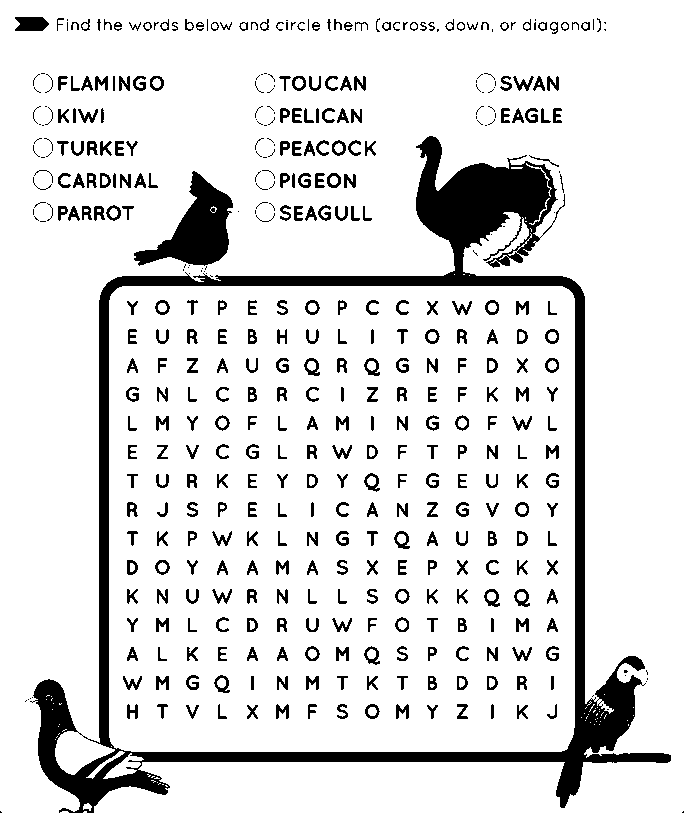
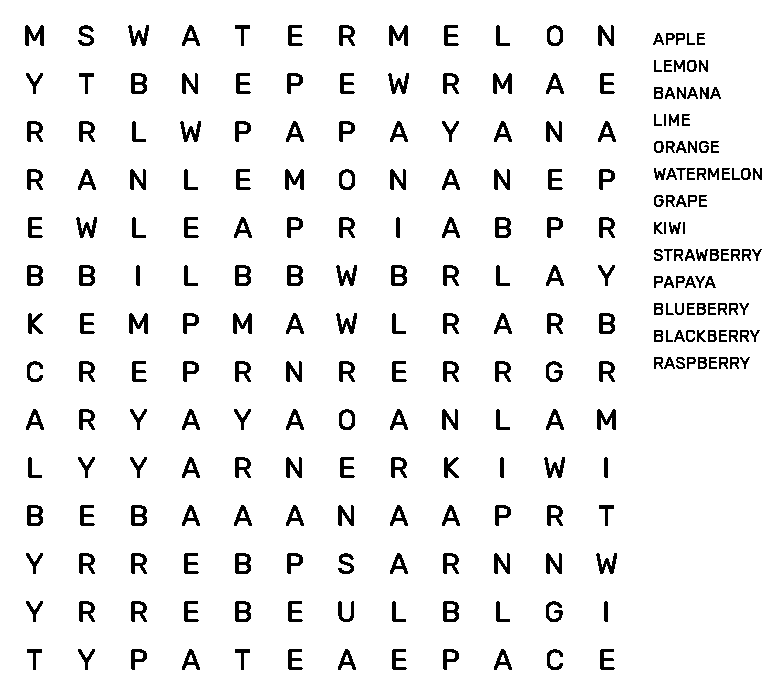
transformed it into linked list

diff --git a/src/Extract/Detection.c b/src/Extract/Detection.c
@@ -56,23 +56,24 @@ void dfs(Cluster *end, int x, int y, gboolean** visit,
 /* initCluster():
     Initialize a new cluster at the given pointer.
 */
-void initCluster(Cluster **last, int x, int y, gboolean** visit,
+void initCluster(Cluster **chain, int x, int y, gboolean** visit,
         GdkPixbuf *pixbuf) {
-    Cluster end = (Cluster) {
+    Cluster *end = malloc(sizeof(Cluster));
+    *end = (Cluster) {
         .size = 0,
         .centerX = 0, .centerY = 0,
         .maxX = x, .minX = x,
         .maxY = y, .minY = y,
         .next = NULL
     };
-    if (*last == NULL)
-        *last = &end;
-    else
-        (*last)->next = &end;
-    *last = &end;
-    dfs(&end, x, y, visit, pixbuf);
-    end.centerX = (end.minX + end.maxX)/2;
-    end.centerY = (end.minY + end.maxY)/2;
+    if (*chain != NULL) {
+        (*chain)->next = end;
+        *chain = (*chain)->next;
+    } else
+        *chain = end;
+    dfs(end, x, y, visit, pixbuf);
+    end->centerX = (end->minX + end->maxX)/2;
+    end->centerY = (end->minY + end->maxY)/2;
 }
 
 
@@ -104,17 +105,23 @@ int retrieve_clusters(GdkPixbuf *input, Cluster **last, int *median) {
     int clusterCount = 0;
 
     //Finding all clusters
+    Cluster *start = NULL;
+    Cluster *chain = NULL;
     for (int y = 0; y < height; y++) {
         for (int x = 0; x < width; x++) {
             //new cluster?
             guchar *pixel = pixels + y * rowstride + x * N;
             if (is_black(pixel) && !visited[x][y]) {//0 means a black pixel
-                initCluster(last, x, y, visited, input);
-                *median+=(*last)->size;
+                initCluster(&chain, x, y, visited, input);
+                if (start == NULL)
+                    start = chain;
+                *median+=chain->size;
                 clusterCount++;
             }
         }
     }
+    *last = start;
+    Cluster *test = start;
     //Updating median
     *median/=clusterCount;
     return clusterCount;
@@ -133,8 +140,9 @@ void testing(Cluster *first, int size, GdkPixbuf *pixbuf) {
     //Iterating over the clusters
     while (first!=NULL) {
         //Coloring into red the whole cluster
+        printf("(Cluster) {.minX=%d,.maxX=%d,.minY=%d,.maxY=%d},\n",first->minX,first->maxX,first->minY,first->maxY);
         for (int x = first->minX; x <= first->maxX; x++) {
-            p = pixels + first->minY*rowstride +x*N;
+            p = pixels + first->minY*rowstride + x*N;
             p[0] = 255;p[1]=0;p[2]=0;
             p = pixels + first->maxY*rowstride +x*N;
             p[0] = 255;p[1]=0;p[2]=0;
@@ -145,9 +153,7 @@ void testing(Cluster *first, int size, GdkPixbuf *pixbuf) {
             p = pixels + y*rowstride +first->maxX*N;
             p[0] = 255;p[1]=0;p[2]=0;
         }
-        printf("there\n");
         first=first->next;
-        printf("or there\n");
     }
     gdk_pixbuf_save(res, "save.png", "png", NULL, NULL);
 }
@@ -157,7 +163,6 @@ void testing(Cluster *first, int size, GdkPixbuf *pixbuf) {
     Filter all clusters according to a threshold.
 */
 int threshold_filter(Cluster *clusters, int count, int median) {
-    
     return count;
 }
 
@@ -168,7 +173,7 @@ int threshold_filter(Cluster *clusters, int count, int median) {
 void extract_information(GdkPixbuf *input) {
     //Linked list of clusters
     Cluster *start = NULL;
-    
+
     //STEP 1: retrieving EVERY clusters
     int median_size = 0;
     int count = retrieve_clusters(input, &start, &median_size);